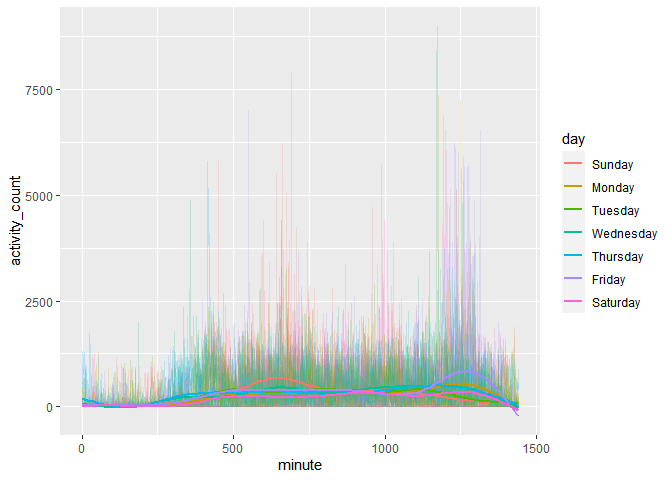
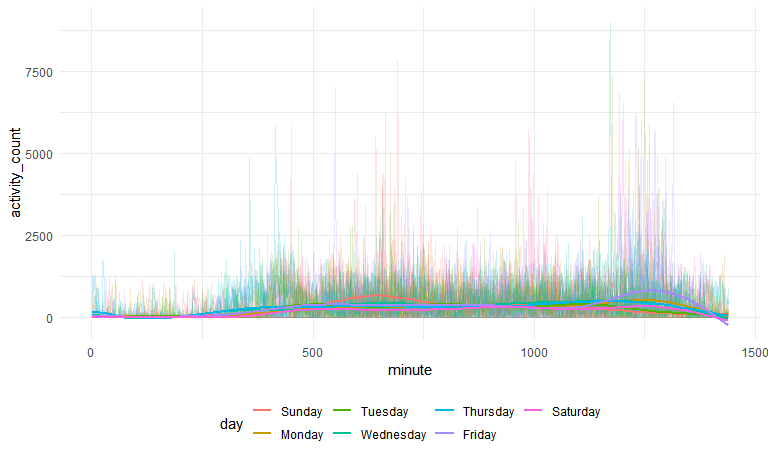
problem 3- part 3

diff --git a/p8105_hw3_nc2894.md b/p8105_hw3_nc2894.md
@@ -20,6 +20,20 @@ library(tidyverse)
 ``` r
 library(p8105.datasets)
 data("ny_noaa")
+
+knitr::opts_chunk$set(
+  fig.width = 8,
+  fig.asp = 0.6,
+  fig.height = 0.6,
+  out.width = "90%"
+)
+
+theme_set(theme_minimal() + theme(legend.position = "bottom"))
+
+options(
+  ggplot2.continuous.colour = "viridis",
+  ggplot2.continuous.fill = "viridis"
+)
 ```
 
 # Problem 2
@@ -70,7 +84,7 @@ accel_df %>%
 
     ## `geom_smooth()` using method = 'gam' and formula 'y ~ s(x, bs = "cs")'
 
-![](p8105_hw3_nc2894_files/figure-gfm/unnamed-chunk-4-1.png)<!-- -->
+<img src="p8105_hw3_nc2894_files/figure-gfm/unnamed-chunk-4-1.png" width="90%" />
 
 # Problem 3
 
@@ -113,7 +127,7 @@ ny_noaa_df %>%
 
 ``` r
 ny_noaa_df %>% 
- filter(month %in% c("01", "07")) %>%
+ filter(month %in% c("1", "7")) %>%
   group_by(id, year, month) %>%
   summarize(
     mean_tmax = mean(tmax, na.rm = TRUE)) %>%
@@ -124,4 +138,11 @@ ny_noaa_df %>%
 
     ## `summarise()` regrouping output by 'id', 'year' (override with `.groups` argument)
 
-![](p8105_hw3_nc2894_files/figure-gfm/unnamed-chunk-6-1.png)<!-- -->
+<img src="p8105_hw3_nc2894_files/figure-gfm/unnamed-chunk-6-1.png" width="90%" />
+
+``` r
+tamx_vs_tmin = 
+  ny_noaa_df %>%
+  ggplot(aes(x = tmax, y = tmin)) + 
+  geom_hex()
+```
